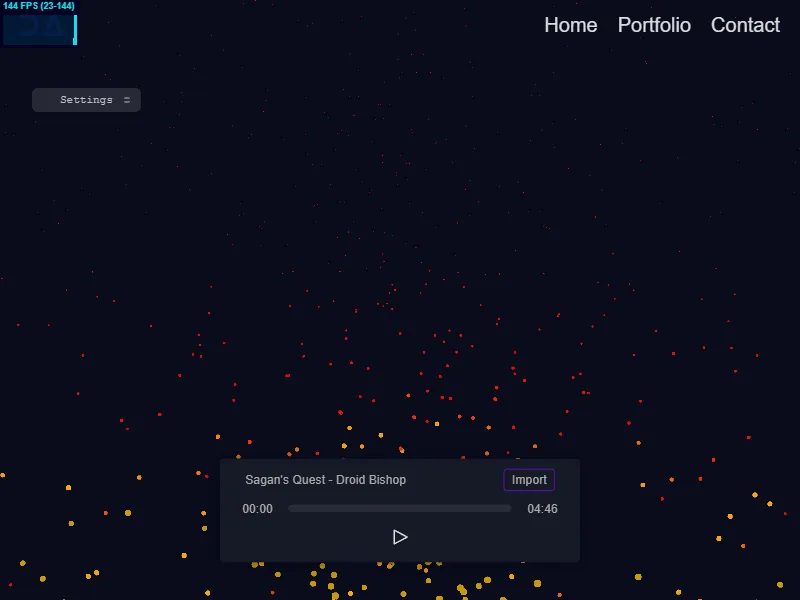
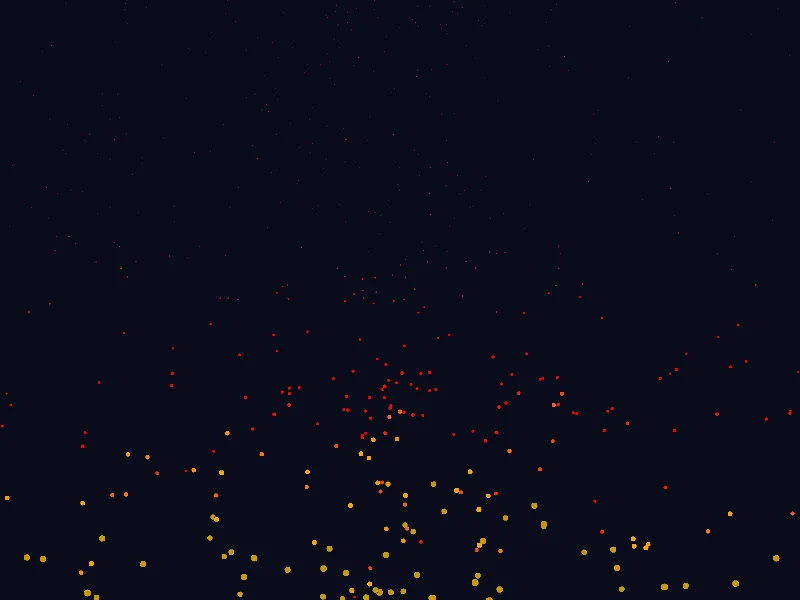
general improvements + added mouse controls to embers scene + added mouse controls to ray marcher scene + removed debug stuff from boids scene + cardlist styling improvements + added remove ui back

diff --git a/scripts/Capture.ts b/scripts/Capture.ts
@@ -65,8 +65,8 @@ class MediaCaptureManager {
       await page.goto(url, { waitUntil: 'networkidle2', timeout: 60000 });
 
       // Wait a few seconds
-      await sleep(3000);
-
+      await sleep(1500);
+      await this.removeUI(page);
       await page.screenshot({ path: filePath });
     } catch (error) {
       // eslint-disable-next-line no-console
@@ -74,6 +74,24 @@ class MediaCaptureManager {
     } finally {
       await page.close();
     }
+  }
+
+  async removeUI(page: Puppeteer.Page) {
+    await page.evaluate(() => {
+      const player = document.querySelector('#audioPlayer-container');
+      if (player) {
+        player.remove();
+      }
+
+      const gui = document.querySelector('#gui_container');
+      if (gui) {
+        gui.remove();
+      }
+      const header = document.querySelector('header');
+      if (header) {
+        header.remove();
+      }
+    });
   }
 
   async shutdown() {

diff --git a/src/styles/cardList.scss b/src/styles/cardList.scss
@@ -24,8 +24,15 @@
     text-align: center;
     gap: 1rem;
     border: 1px solid var(--color-accent-2);
+    border-radius: var(--border-radius);
     padding: 1.25rem;
     margin-bottom: var(--main-margin-y);
+    box-shadow: 0 4px 8px rgba(0, 0, 0, 0.1);
+    background: var(--color-surface-0);
+  }
+
+  & .section-details a {
+    // color:
   }
 
   @media only screen and (min-width: 600px) {
@@ -71,7 +78,7 @@
 }
 
 .checkbox-label:hover {
-  background: var(--color-accent-3);
+  // background: var(--color-accent-3);
   color: var(--color-text);
   border: 2px solid var(--color-accent-2);
   box-shadow: 0 4px 8px rgba(0, 0, 0, 0.2);
@@ -89,7 +96,7 @@
 }
 
 .checkbox-label.checked:hover {
-  background: var(--color-background);
+  // background: var(--color-background);
   border: 2px solid var(--color-accent);
   box-shadow: 0 6px 12px rgba(0, 0, 0, 0.2);
 }

diff --git a/src/styles/button.module.css b/src/styles/button.module.css
@@ -28,6 +28,7 @@
   border: none;
   box-shadow: var(--box-shadow);
   text-transform: uppercase;
+  z-index: 2;
 }
 
 .button > * {
@@ -35,7 +36,7 @@
 }
 
 .button.outlined {
-  background: transparent;
+  background: rgba(0, 0, 0, 0);
   color: var(--color-accent-2);
   background: var(--color-background);
 }
@@ -48,6 +49,7 @@
   animation: spin 3s linear infinite;
   /* #330867 */
   background-image: linear-gradient(var(--rotate), #2629e1 0%, #620fc7 100%);
+  color: white;
 }
 
 .button:before {
@@ -74,7 +76,7 @@
 
 .button.outlined:before {
   filter: none;
-  background: var(--color-accent);
+  /* background: var(--color-accent); */
 }
 
 .button:after {
